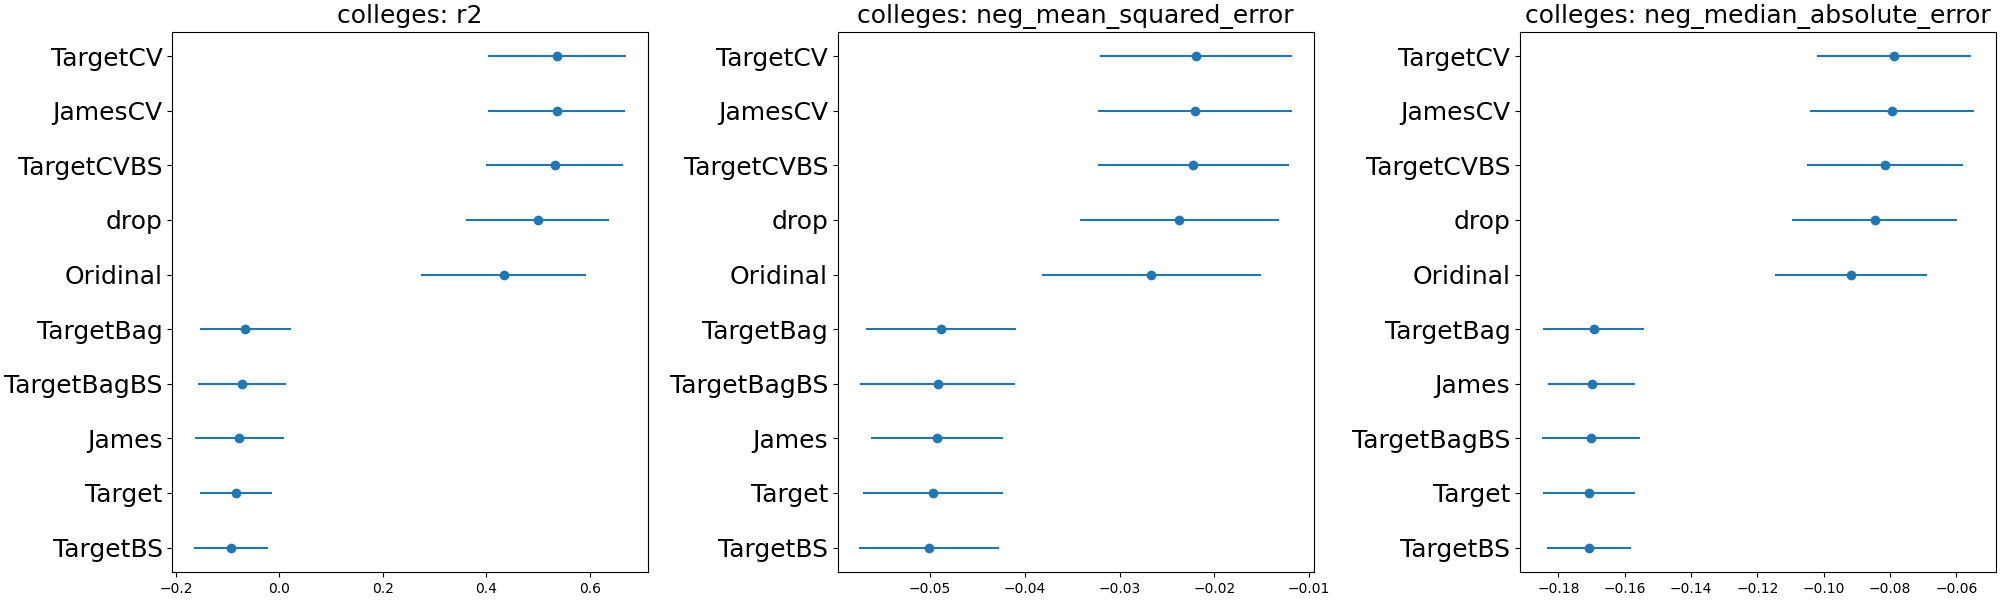
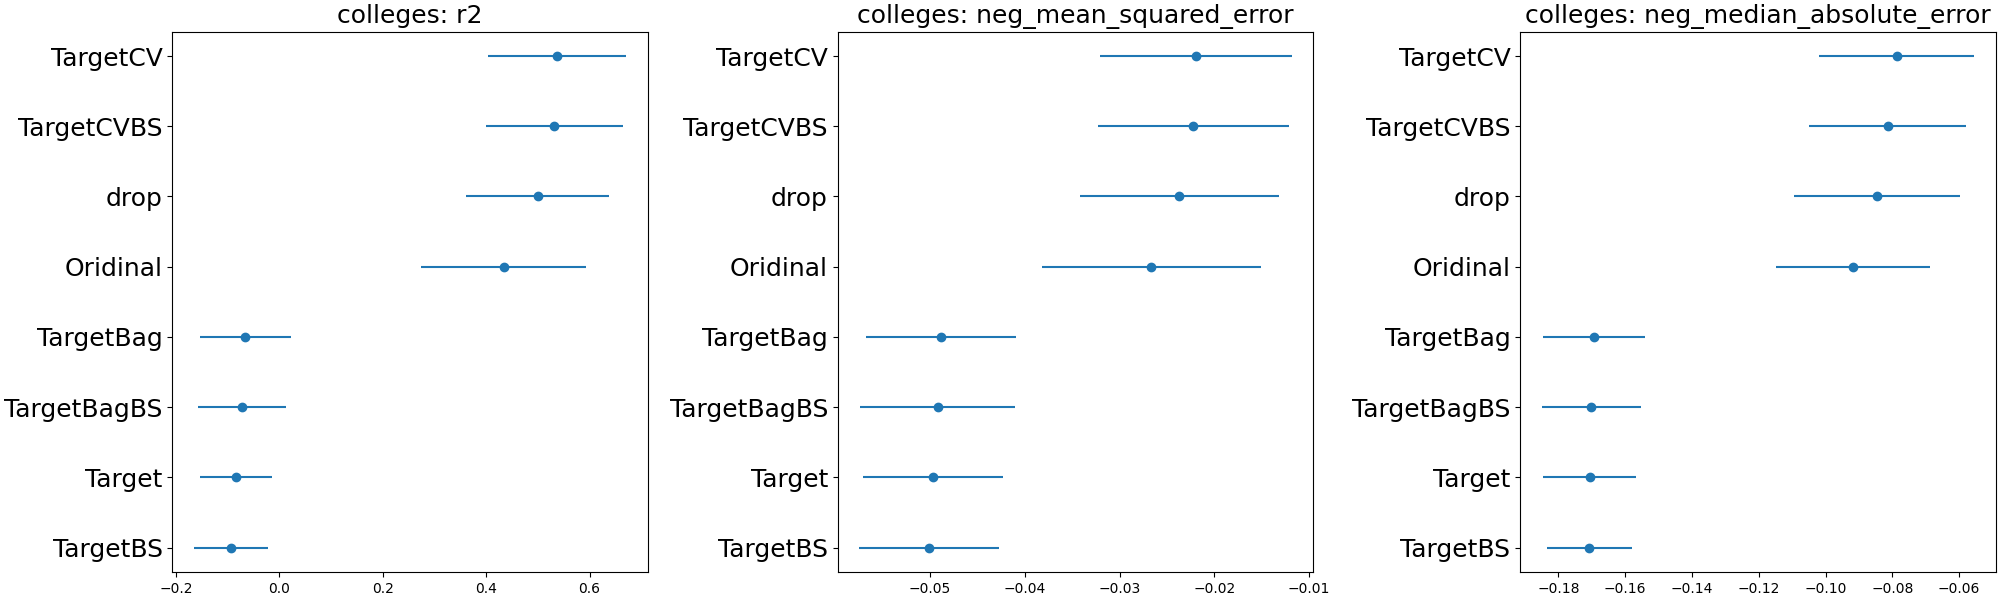
ENH Make figures bigger

diff --git a/generate_report.py b/generate_report.py
@@ -53,6 +53,10 @@ def plot_metric_for_name(
         return mapping.get(item, item)
 
     results_data_name["encoder"] = results_data_name["encoder"].map(map_it)
+    # Remove James
+    results_data_name = results_data_name[
+        ~results_data_name["encoder"].str.startswith("James")
+    ]
 
     results_data_name_sorted = results_data_name.sort_values(f"test_{metric_name}_mean")
     null_encoders = ~results_data_name_sorted[f"test_{metric_name}_mean"].isna()
